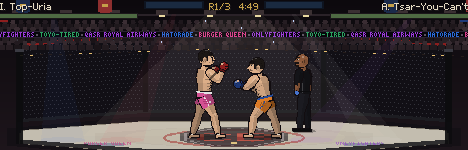
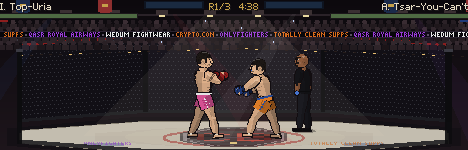
2.2.0: What's New and README for the fight overhaul and tutorials; retaken fight pictures
- Version 2.2.0. The What's New card is wider so no line is cut off, and lists the
  smarter fighters, hands-on controls, broadcast watching, NEXT RND / HIGHLIGHTS and
  the picture tutorials. The README gets a 2.2.0 section.
- Fight card on phones: WATCH and SIM sit inside their row instead of running off the
  edge of the screen.
- Fight HUD: the fighters' names sit on a dark plate, so a lamp or banner hanging
  behind them can't eat a letter. The arena screens show sponsor names in whole words
  rather than cut off with dots.
- Tutorial: the WATCHING lesson names the real controls (the speed button, PAUSE, CAM,
  NEXT RND, HIGHLIGHTS, SKIP TO END) and its picture marks all five; the phone fight
  card picture shows the buttons. Fight-night pictures retaken.

Claude-Session: https://claude.ai/code/session_011VYE9QAxAYV8EGFoXNtwDG

diff --git a/src/ui/guidepics.ts b/src/ui/guidepics.ts
@@ -66,10 +66,10 @@ export const PICS: Record<string, { pc?: PicInfo; phone?: PicInfo }> = {
   "fd_5": {"pc":{"file":"pc/fd_5.png","w":468,"h":150,"marks":[{"k":"legend","x":6,"y":24,"items":[["[getl]","LEFT"],["[getr]","RIGHT"]]}]},"phone":{"file":"phone/fd_5.png","w":508,"h":120,"r":2,"marks":[{"k":"tap","x":52,"y":64},{"k":"tap","x":456,"y":64,"n":2}]}},
   "fg_1": {"pc":{"file":"pc/fg_1.png","w":468,"h":150,"marks":[{"k":"box","x":200,"y":124,"w":67,"h":14}]},"phone":{"file":"phone/fg_1.png","w":508,"h":120,"r":2,"marks":[{"k":"box","x":193,"y":42,"w":67,"h":14},{"k":"box","x":470,"y":54,"w":32,"h":32,"n":2},{"k":"box","x":400,"y":84,"w":32,"h":32,"n":2}]}},
   "fg_4": {"pc":{"file":"pc/fg_4.png","w":468,"h":150,"marks":[{"k":"legend","x":6,"y":24,"items":[["[grab]","MASH"],["[stick]","ROLL"]]}]},"phone":{"file":"phone/fg_4.png","w":508,"h":120,"r":2,"marks":[{"k":"tap","x":486,"y":70,"label":"MASH"},{"k":"tap","x":416,"y":100,"n":2},{"k":"swipe","x":16,"y":66,"x2":52,"y2":66,"n":3,"label":"ROLL"}]}},
-  "fmn_1": {"pc":{"file":"pc/fmn_1.png","w":468,"h":150,"marks":[{"k":"box","x":0,"y":2,"w":458,"h":22},{"k":"tap","x":369,"y":14,"n":2},{"k":"box","x":388,"y":6,"w":35,"h":15,"n":3},{"k":"box","x":424,"y":6,"w":31,"h":15,"n":3}]},"phone":{"file":"phone/fmn_1.png","w":468,"h":150,"r":2,"marks":[{"k":"box","x":0,"y":2,"w":458,"h":22},{"k":"tap","x":369,"y":14,"n":2},{"k":"box","x":388,"y":6,"w":35,"h":15,"n":3},{"k":"box","x":424,"y":6,"w":31,"h":15,"n":3}]}},
+  "fmn_1": {"pc":{"file":"pc/fmn_1.png","w":468,"h":150,"marks":[{"k":"box","x":0,"y":2,"w":458,"h":22},{"k":"tap","x":369,"y":14,"n":2},{"k":"box","x":388,"y":6,"w":35,"h":15,"n":3},{"k":"box","x":424,"y":6,"w":31,"h":15,"n":3}]},"phone":{"file":"phone/fmn_1.png","w":468,"h":150,"r":2,"marks":[{"k":"box","x":0,"y":2,"w":468,"h":25},{"k":"tap","x":380,"y":15,"n":2},{"k":"box","x":406,"y":5,"w":47,"h":20,"n":3},{"k":"box","x":456,"y":5,"w":12,"h":20,"n":3}]}},
   "fn_1": {"pc":{"file":"pc/fn_1.png","w":472,"h":264,"r":2,"marks":[{"k":"box","x":4,"y":240,"w":131,"h":19},{"k":"tap","x":404,"y":250,"n":2}]},"phone":{"file":"pc/fn_1.png","w":472,"h":264,"r":2,"marks":[{"k":"box","x":4,"y":240,"w":131,"h":19},{"k":"tap","x":404,"y":250,"n":2}]}},
-  "fn_2": {"pc":{"file":"pc/fn_2.png","w":468,"h":150,"marks":[{"k":"tap","x":406,"y":14},{"k":"tap","x":440,"y":14,"n":2}]},"phone":{"file":"phone/fn_2.png","w":468,"h":150,"r":2,"marks":[{"k":"tap","x":406,"y":14},{"k":"tap","x":440,"y":14,"n":2}]}},
-  "fn_3": {"pc":{"file":"pc/fn_3.png","w":480,"h":270,"r":2,"marks":[{"k":"box","x":4,"y":254,"w":51,"h":14},{"k":"box","x":57,"y":254,"w":37,"h":14,"n":2},{"k":"box","x":96,"y":254,"w":63,"h":14,"n":3},{"k":"box","x":161,"y":254,"w":57,"h":14,"n":4}]},"phone":{"file":"phone/fn_3.png","w":480,"h":270,"r":2,"marks":[{"k":"box","x":4,"y":253,"w":63,"h":17},{"k":"box","x":69,"y":253,"w":51,"h":17,"n":2},{"k":"box","x":122,"y":253,"w":77,"h":17,"n":3},{"k":"box","x":201,"y":253,"w":97,"h":17,"n":4}]}},
+  "fn_2": {"pc":{"file":"pc/fn_2.png","w":468,"h":150,"marks":[{"k":"tap","x":406,"y":14},{"k":"tap","x":440,"y":14,"n":2}]},"phone":{"file":"phone/fn_2.png","w":520,"h":150,"r":2,"marks":[{"k":"tap","x":440,"y":15},{"k":"tap","x":488,"y":15,"n":2}]}},
+  "fn_3": {"pc":{"file":"pc/fn_3.png","w":480,"h":270,"r":2,"marks":[{"k":"box","x":4,"y":254,"w":35,"h":14},{"k":"box","x":41,"y":254,"w":33,"h":14,"n":2},{"k":"box","x":76,"y":254,"w":49,"h":14,"n":3},{"k":"box","x":127,"y":254,"w":102,"h":14,"n":4},{"k":"box","x":231,"y":254,"w":49,"h":14,"n":5}]},"phone":{"file":"phone/fn_3.png","w":480,"h":270,"r":2,"marks":[{"k":"box","x":4,"y":253,"w":45,"h":17},{"k":"box","x":51,"y":253,"w":47,"h":17,"n":2},{"k":"box","x":100,"y":253,"w":61,"h":17,"n":3},{"k":"box","x":163,"y":253,"w":142,"h":17,"n":4},{"k":"box","x":307,"y":253,"w":68,"h":17,"n":5}]}},
   "fn_4": {"pc":{"file":"pc/fn_4.png","w":468,"h":150,"marks":[{"k":"tap","x":300,"y":43},{"k":"box","x":0,"y":20,"w":282,"h":6,"n":2}]},"phone":{"file":"phone/fn_4.png","w":468,"h":150,"r":2,"marks":[{"k":"tap","x":300,"y":43},{"k":"box","x":0,"y":20,"w":282,"h":6,"n":2}]}},
   "hub_1": {"pc":{"file":"pc/hub_1.png","w":152,"h":200,"marks":[{"k":"box","x":4,"y":4,"w":142,"h":70},{"k":"box","x":4,"y":96,"w":142,"h":54,"n":2},{"k":"box","x":4,"y":150,"w":142,"h":18,"n":3}]},"phone":{"file":"phone/hub_1.png","w":152,"h":200,"r":2,"marks":[{"k":"box","x":4,"y":4,"w":142,"h":70},{"k":"box","x":4,"y":96,"w":142,"h":54,"n":2},{"k":"box","x":4,"y":150,"w":142,"h":18,"n":3}]}},
   "hub_2": {"pc":{"file":"pc/hub_2.png","w":166,"h":200,"marks":[{"k":"box","x":110,"y":5,"w":42,"h":12},{"k":"box","x":8,"y":19,"w":149,"h":106,"n":2},{"k":"box","x":8,"y":128,"w":149,"h":60,"n":3}]},"phone":{"file":"phone/hub_2.png","w":378,"h":134,"r":2,"marks":[{"k":"box","x":332,"y":3,"w":42,"h":12},{"k":"box","x":2,"y":16,"w":372,"h":56,"n":2},{"k":"box","x":2,"y":74,"w":122,"h":27,"n":2},{"k":"box","x":127,"y":74,"w":247,"h":27,"n":3},{"k":"box","x":2,"y":103,"w":372,"h":27,"n":3}]}},

diff --git a/src/ui/whatsnew.ts b/src/ui/whatsnew.ts
@@ -17,6 +17,11 @@ export const NOTES: { v: string; lines: string[] }[] = [
       'PLAY ANYWHERE: on your phone at 506clicks.ca/play/cageboss, and a new Android app.',
       'Phones fill the screen: big buttons, touch fight controls, skip intros and cutscenes.',
       'END WEEK no longer freezes phones: saving happens in the background.',
+      'TUTORIALS: picture lessons for every screen (title screen or MENU, any time).',
+      'Smarter fighters: they hold their range, cut you off, feint, counter and sprawl.',
+      'Hands-on fights: snappier controls, combos, counters, sprawls and ground escapes.',
+      'Watching: broadcast pacing, instant replays, knockdown slow-mo, momentum and heat.',
+      'NEXT RND and HIGHLIGHTS hurry a fight along without missing the big moments.',
       'QUICK FIGHT venues: a beach, an aircraft carrier, a rooftop, Uncle Dale\'s barn and more.',
       'Book your event at one of them and that\'s where the cage goes.',
       'Nine new fighters, three of them from the Maritimes.',
@@ -111,13 +116,14 @@ export function maybeWhatsNew(g: Game): void {
 export function openWhatsNew(g: Game): void {
   const n = NOTES.find((x) => x.v === __APP_VERSION__) ?? NOTES[0];
   const h = 52 + n.lines.length * 12;
-  const win = openWindow(g, "What's new", 280, h);
+  // wide enough that every line fits on one (a note is a line, not a paragraph)
+  const win = openWindow(g, "What's new", 400, h);
   win.body.addChild(text(`VERSION ${n.v}`, 8, 4, { color: PAL.gold }));
   n.lines.forEach((l, i) => {
     win.body.addChild(text('•', 8, 18 + i * 12, { small: true, color: PAL.gold }));
-    win.body.addChild(text(l, 16, 18 + i * 12, { small: true, color: PAL.bone, width: 256, maxLines: 1 }));
+    win.body.addChild(text(l, 16, 18 + i * 12, { small: true, color: PAL.bone, width: 376, maxLines: 1 }));
   });
   const y = 22 + n.lines.length * 12;
-  win.body.addChild(button('LET ME PLAY', 8, y, 124, 14, () => win.close(), { small: true, fill: PAL.moss }));
-  win.body.addChild(button('OPEN HELP', 148, y, 124, 14, () => { win.close(); openHelp(g); }, { small: true, fill: PAL.shadow, border: PAL.gold }));
+  win.body.addChild(button('LET ME PLAY', 8, y, 184, 14, () => win.close(), { small: true, fill: PAL.moss }));
+  win.body.addChild(button('OPEN HELP', 208, y, 184, 14, () => { win.close(); openHelp(g); }, { small: true, fill: PAL.shadow, border: PAL.gold }));
 }

diff --git a/src/ui/arena.ts b/src/ui/arena.ts
@@ -648,7 +648,8 @@ export class ArenaView extends Container {
     this.topWorld.cacheAsTexture({ resolution: res, antialias: false });
     this.drawBg();
     this.drawTopStatic();
-    // shadowed: the sky behind them is bright at an outdoor venue
+    // shadowed, on a faint plate (drawHud): the sky is bright outdoors, and lamps and banners hang behind them
+    this.nameW = [Math.min(120, measure(`${A.first[0]}. ${A.last}`)), Math.min(120, measure(`${B.first[0]}. ${B.last}`))];
     this.hud.addChild(text(`${A.first[0]}. ${A.last}`, 6, 3, { color: PAL.bone, shadow: PAL.ink }));
     this.hud.addChild(text(`${B.first[0]}. ${B.last}`, AW - 126, 3, { color: PAL.bone, width: 120, align: 'right', shadow: PAL.ink }));
     this.clock = text('R1 5:00', 0, 3, { width: AW, align: 'center', color: PAL.gold, shadow: PAL.ink });
@@ -836,7 +837,10 @@ export class ArenaView extends Container {
       t.visible = showAd;
       if (showAd) {
         const a = sp[(slot + i) % sp.length];
-        t.setText(a.name.toUpperCase());
+        // the screen's 56 px wide: as many whole words as fit, not a name cut off with dots
+        const words = a.name.toUpperCase().split(' ');
+        while (words.length > 1 && measure(words.join(' '), true) > 56) words.pop();
+        t.setText(words.join(' '));
         t.tint = a.color;
       }
     });
@@ -2395,6 +2399,8 @@ export class ArenaView extends Container {
     return this.calloutT > 0 && this.calloutW > 150;
   }
   private calloutW = 0;
+  /** the HUD names' widths, for the plates behind them */
+  private nameW = [0, 0];
 
   showCallout(s: string, color: number = PAL.gold, prio = 1): void {
     if (prio < this.calloutPrio && this.calloutT > 0.6) return;
@@ -3445,6 +3451,7 @@ export class ArenaView extends Container {
     const tv = this.mode === 'tv';
     this.clock.visible = this.scene === 'fight';
     if (this.scene === 'fight') {
+      h.rect(3, 2, this.nameW[0] + 6, 10).fill({ color: 0x000000, alpha: 0.75 }).rect(AW - 9 - this.nameW[1], 2, this.nameW[1] + 6, 10).fill({ color: 0x000000, alpha: 0.75 });
       // HP bars: the chunk just lost shows pale, holds a beat and drains away; a real hit flashes the bar white
       for (const i of [0, 1] as const) {
         const hp = Math.max(0, Math.min(100, this.hp[i]));

diff --git a/src/ui/guidelessons.ts b/src/ui/guidelessons.ts
@@ -247,8 +247,8 @@ export const LESSONS: Lesson[] = [
       },
       {
         title: "WATCHING", pic: "fn_3",
-        pc: "While you watch: SPEED, PAUSE, CAM (side, TV or top-down) and SKIP to the end. The booth calls it, the Juiced Butler announces it, Bleeter loses its mind. Between rounds the corners patch up their guys.",
-        phone: "While you watch: SPEED, PAUSE, CAM (side, TV or top-down) and SKIP to the end. The booth calls it, the Juiced Butler announces it, Bleeter loses its mind. Between rounds the corners patch up their guys.",
+        pc: "While you watch: the speed (SLOW to BLITZ), PAUSE, CAM (side, TV or top-down), NEXT RND and HIGHLIGHTS (rushes the quiet stretches), and SKIP TO END. Big moments get an instant replay. Between rounds the corners patch up their guys.",
+        phone: "While you watch: the speed (SLOW to BLITZ), PAUSE, CAM (side, TV or top-down), NEXT RND and HIGHLIGHTS (rushes the quiet stretches), and SKIP TO END. Big moments get an instant replay. Between rounds the corners patch up their guys.",
       },
       {
         title: "BONUSES", pic: "fn_4",

diff --git a/src/ui/scenes/fightnight.ts b/src/ui/scenes/fightnight.ts
@@ -342,7 +342,7 @@ export class FightNightScene extends Scene {
       } else {
         const fmb = this.fmFor(b);
         // [x, w] of FIGHT / WATCH / SIM from the row's right edge
-        const bw = P ? [[150, 46], [100, 46], [50, 42]] : [[130, 36], [92, 34], [56, 30]];
+        const bw = P ? [[168, 46], [118, 46], [68, 42]] : [[130, 36], [92, 34], [56, 30]];
         const bh = P ? 19 : 14;
         if (fmb?.live && this.g.settings.handsOn !== false) row.addChild(button('FIGHT!', FW - bw[0][0], P ? 3 : 4, bw[0][1], bh, () => this.liveFight(b), { small: true, fill: PAL.gold }));
         row.addChild(button('WATCH', FW - bw[1][0], P ? 3 : 4, bw[1][1], bh, () => this.watch(b), { small: true, fill: PAL.blood }));

diff --git a/README.md b/README.md
@@ -72,6 +72,15 @@ python3 tools/commentary_src.py            # rebuild commentary & ring announcer
 python3 tools/popculture_src.py            # rebuild the pop-culture parody bank
 ```
 
+## Play anywhere (2.2.0)
+
+- **Phones.** The game runs in a phone browser at 506clicks.ca/play/cageboss and as an Android app. Screens fill the phone, buttons are big enough for thumbs, fights have touch controls, and END WEEK saves in the background instead of freezing.
+- **Tutorials with pictures.** 23 lessons, each with a screenshot of the screen it explains and marks on what to press (PC and phone pictures). New players get them as they reach each screen. TUTORIALS on the title screen and in MENU lists them all.
+- **Smarter fighters.** The CPU strikes from its own range and steps in to land, counters on a whiff, beats a slow shot to the punch, sets up with feints, reads your habits and works the fence. Its counters wait on a human reaction time, so it reads you without reading your mind.
+- **Hands-on fights.** Combos with names, counters, stuffed takedowns, a sprawl prompt, frames and escapes on the ground, and checks, blocks and parries that show.
+- **Watching a fight.** Broadcast pacing (the booth talks over the action, the clock ticks), momentum and crowd heat, knockdown slow motion, instant replays of the finish, NEXT RND and HIGHLIGHTS to hurry things along, and a real Play of the Night. The ref steps between them and the finishes match the shot that did it.
+- **More to see.** Sixteen Quick Fight venues (a beach, an aircraft carrier, a rooftop, Uncle Dale's barn...), and events booked into those rooms. Nine new fighters. A desk phone that rings until you pick it up.
+
 ## The final round (2.1.0)
 
 The last update before the full release, all of it in the cage:
